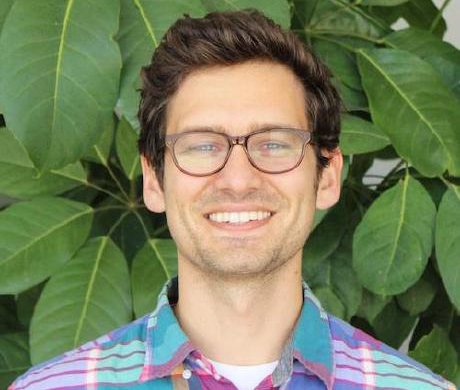
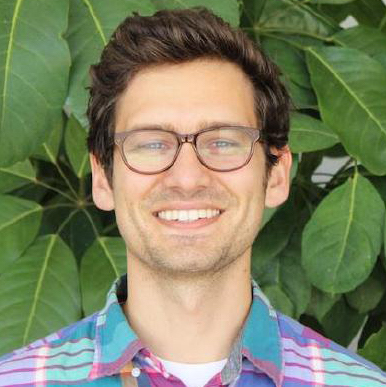
add profile pic, move languages to footer

diff --git a/index.html b/index.html
@@ -23,12 +23,24 @@
 <body>
 
   <div class='jumbotron text-center' style='background-color: #34495e'>
+    <div class='container profile-row'>
+      <div class='col-md-5'>
+      <hr />
+        
+      </div>
+      <div class='col-md-2'>
+        <img src='./img/avatar.jpg' alt='Daniel' class='img-circle img-responsive' id='avatar' />
+      </div>
+      <div class='col-md-5'>
+      <hr />
+      </div>
+    </div>
     <h1 style='color:white'>Daniel Merrill</h1>
     <h3 style='color:white'>Full Stack Developer</h3>
-      <kbd> < Javascript | React Native | React | Node | Android > </kbd>
 
   </div>
-  <div class='container'>
+  <div class='container main'>
+
     <div class='row info-row center-block'>
 
       <div class='col-md-8'>
@@ -90,12 +102,17 @@ Play hide-and-go-seek in an open field, or hide treasure across continents!
         </div>
         -->
   </div>
-  <footer class="footer d-flex">
-    <div class='pull-left footer-left'>
-      <p class="text-muted"><a href='mailto:hi@danielmerrill.com'><span class="glyphicon glyphicon-envelope"></span> hi@danielmerrill.com</a></p>
-    </div>
-    <div class='pull-right footer-right'>
-      <a href="http://github.com/computerjazz"><i class="fa fa-github footer-icon"></i></a>
+  <footer class="footer d-flex container">
+    <div class='row'>
+      <div class='footer-left col-md-2'>
+        <p class="text-muted"><a href='mailto:hi@danielmerrill.com'><span class="glyphicon glyphicon-envelope"></span> hi@danielmerrill.com</a></p>
+      </div>
+      <div class='col-md-8'>
+        <kbd> < Javascript | React Native | React | Node | Android > </kbd>
+      </div>
+      <div class='footer-right col-md-2'>
+        <a href="http://github.com/computerjazz"><i class="fa fa-github footer-icon"></i></a>
+      </div>
     </div>
   </footer>
 </body>

diff --git a/css/styles.css b/css/styles.css
@@ -9,7 +9,7 @@ body {
   margin-bottom: 60px !important;
 }
 
-hr {
+.main hr {
   margin-left: 50px;
   margin-right: 50px;
   padding-top: 50px;
@@ -22,6 +22,7 @@ hr {
 
 .footer {
   position: absolute;
+  text-align: center;
   bottom: 0;
   width: 100%;
   margin-top: 50px;
@@ -29,14 +30,6 @@ hr {
   /* Set the fixed height of the footer here */
   height: 60px;
   background-color: #f0f0f0;
-}
-
-.footer-left {
-  margin-left: 50px;
-}
-
-.footer-right {
-  margin-right: 50px;
 }
 
 .footer-icon {
@@ -51,15 +44,23 @@ hr {
   margin-bottom: 50px;
 }
 
+.profile-row {
+  display: flex;
+  align-items: center;
+}
+
+.profile-row hr {
+  margin-left: 30px;
+  margin-right: 30px;
+}
+
 #info-blurb {
   padding-right: 30px;
   margin-bottom: 30px;
 }
 
-
-
 #avatar {
-  max-height: 150px;
+  border: 5px solid #ecf0f1;
 }
 
 #learnToCode {
